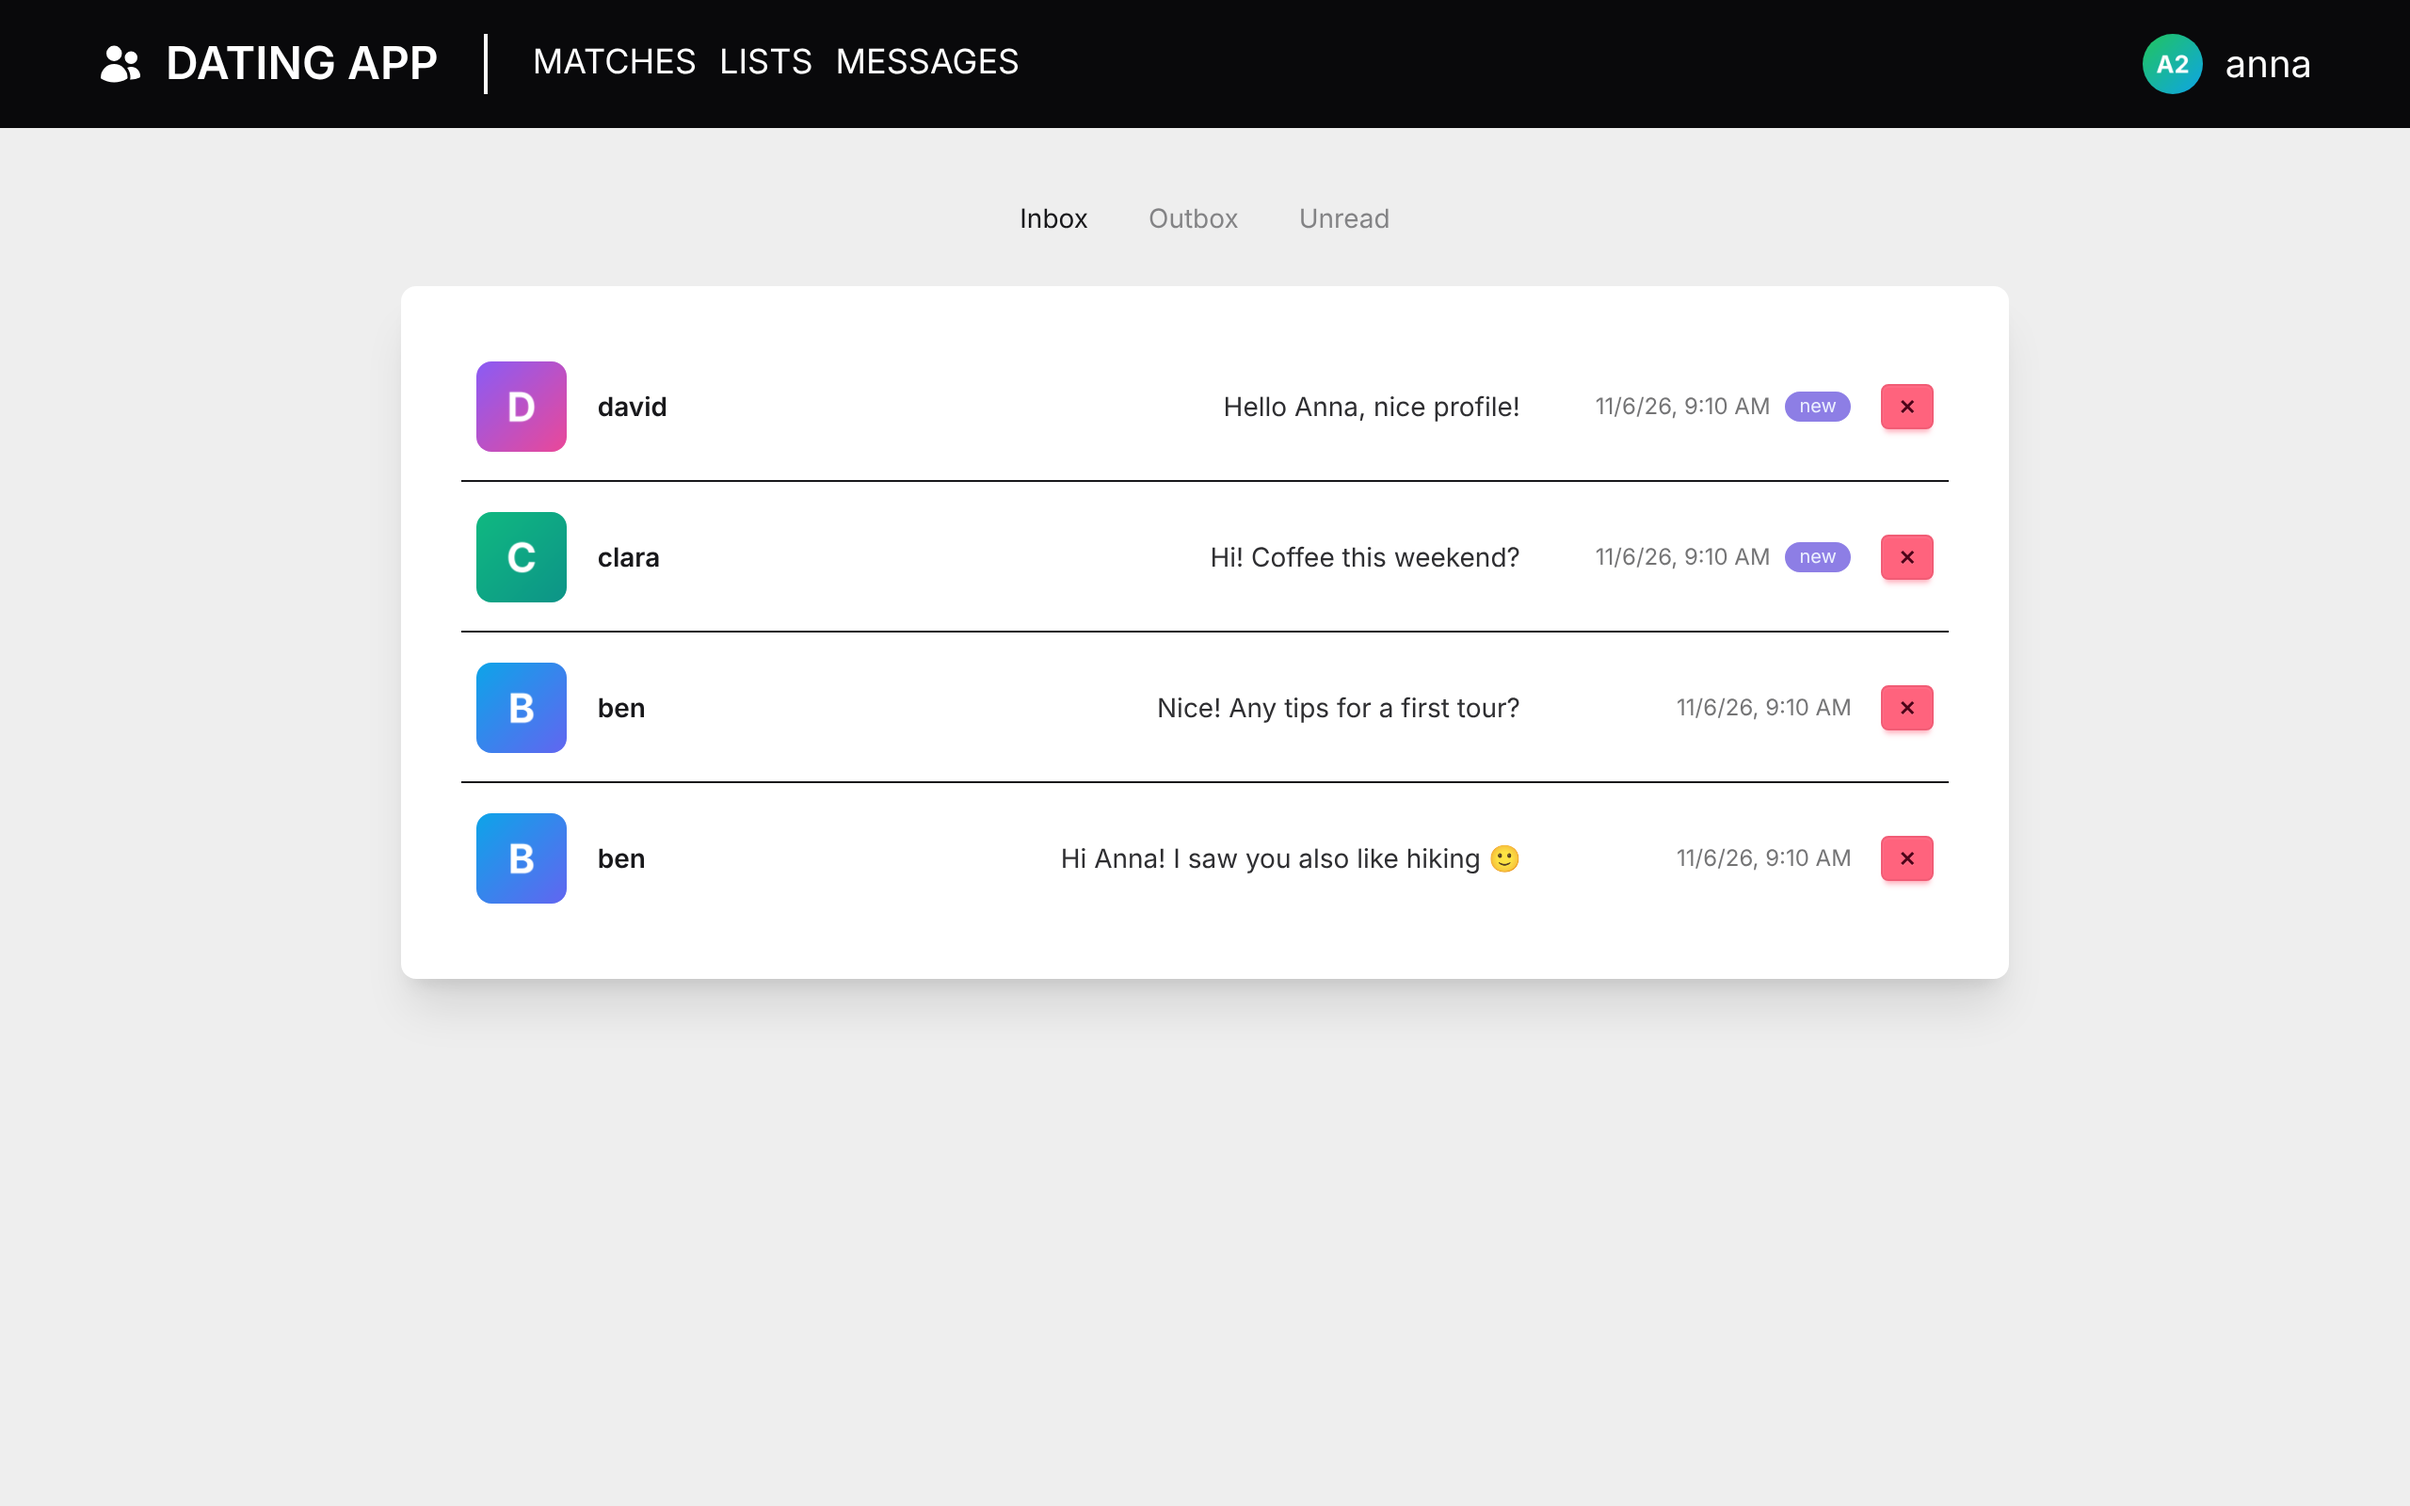
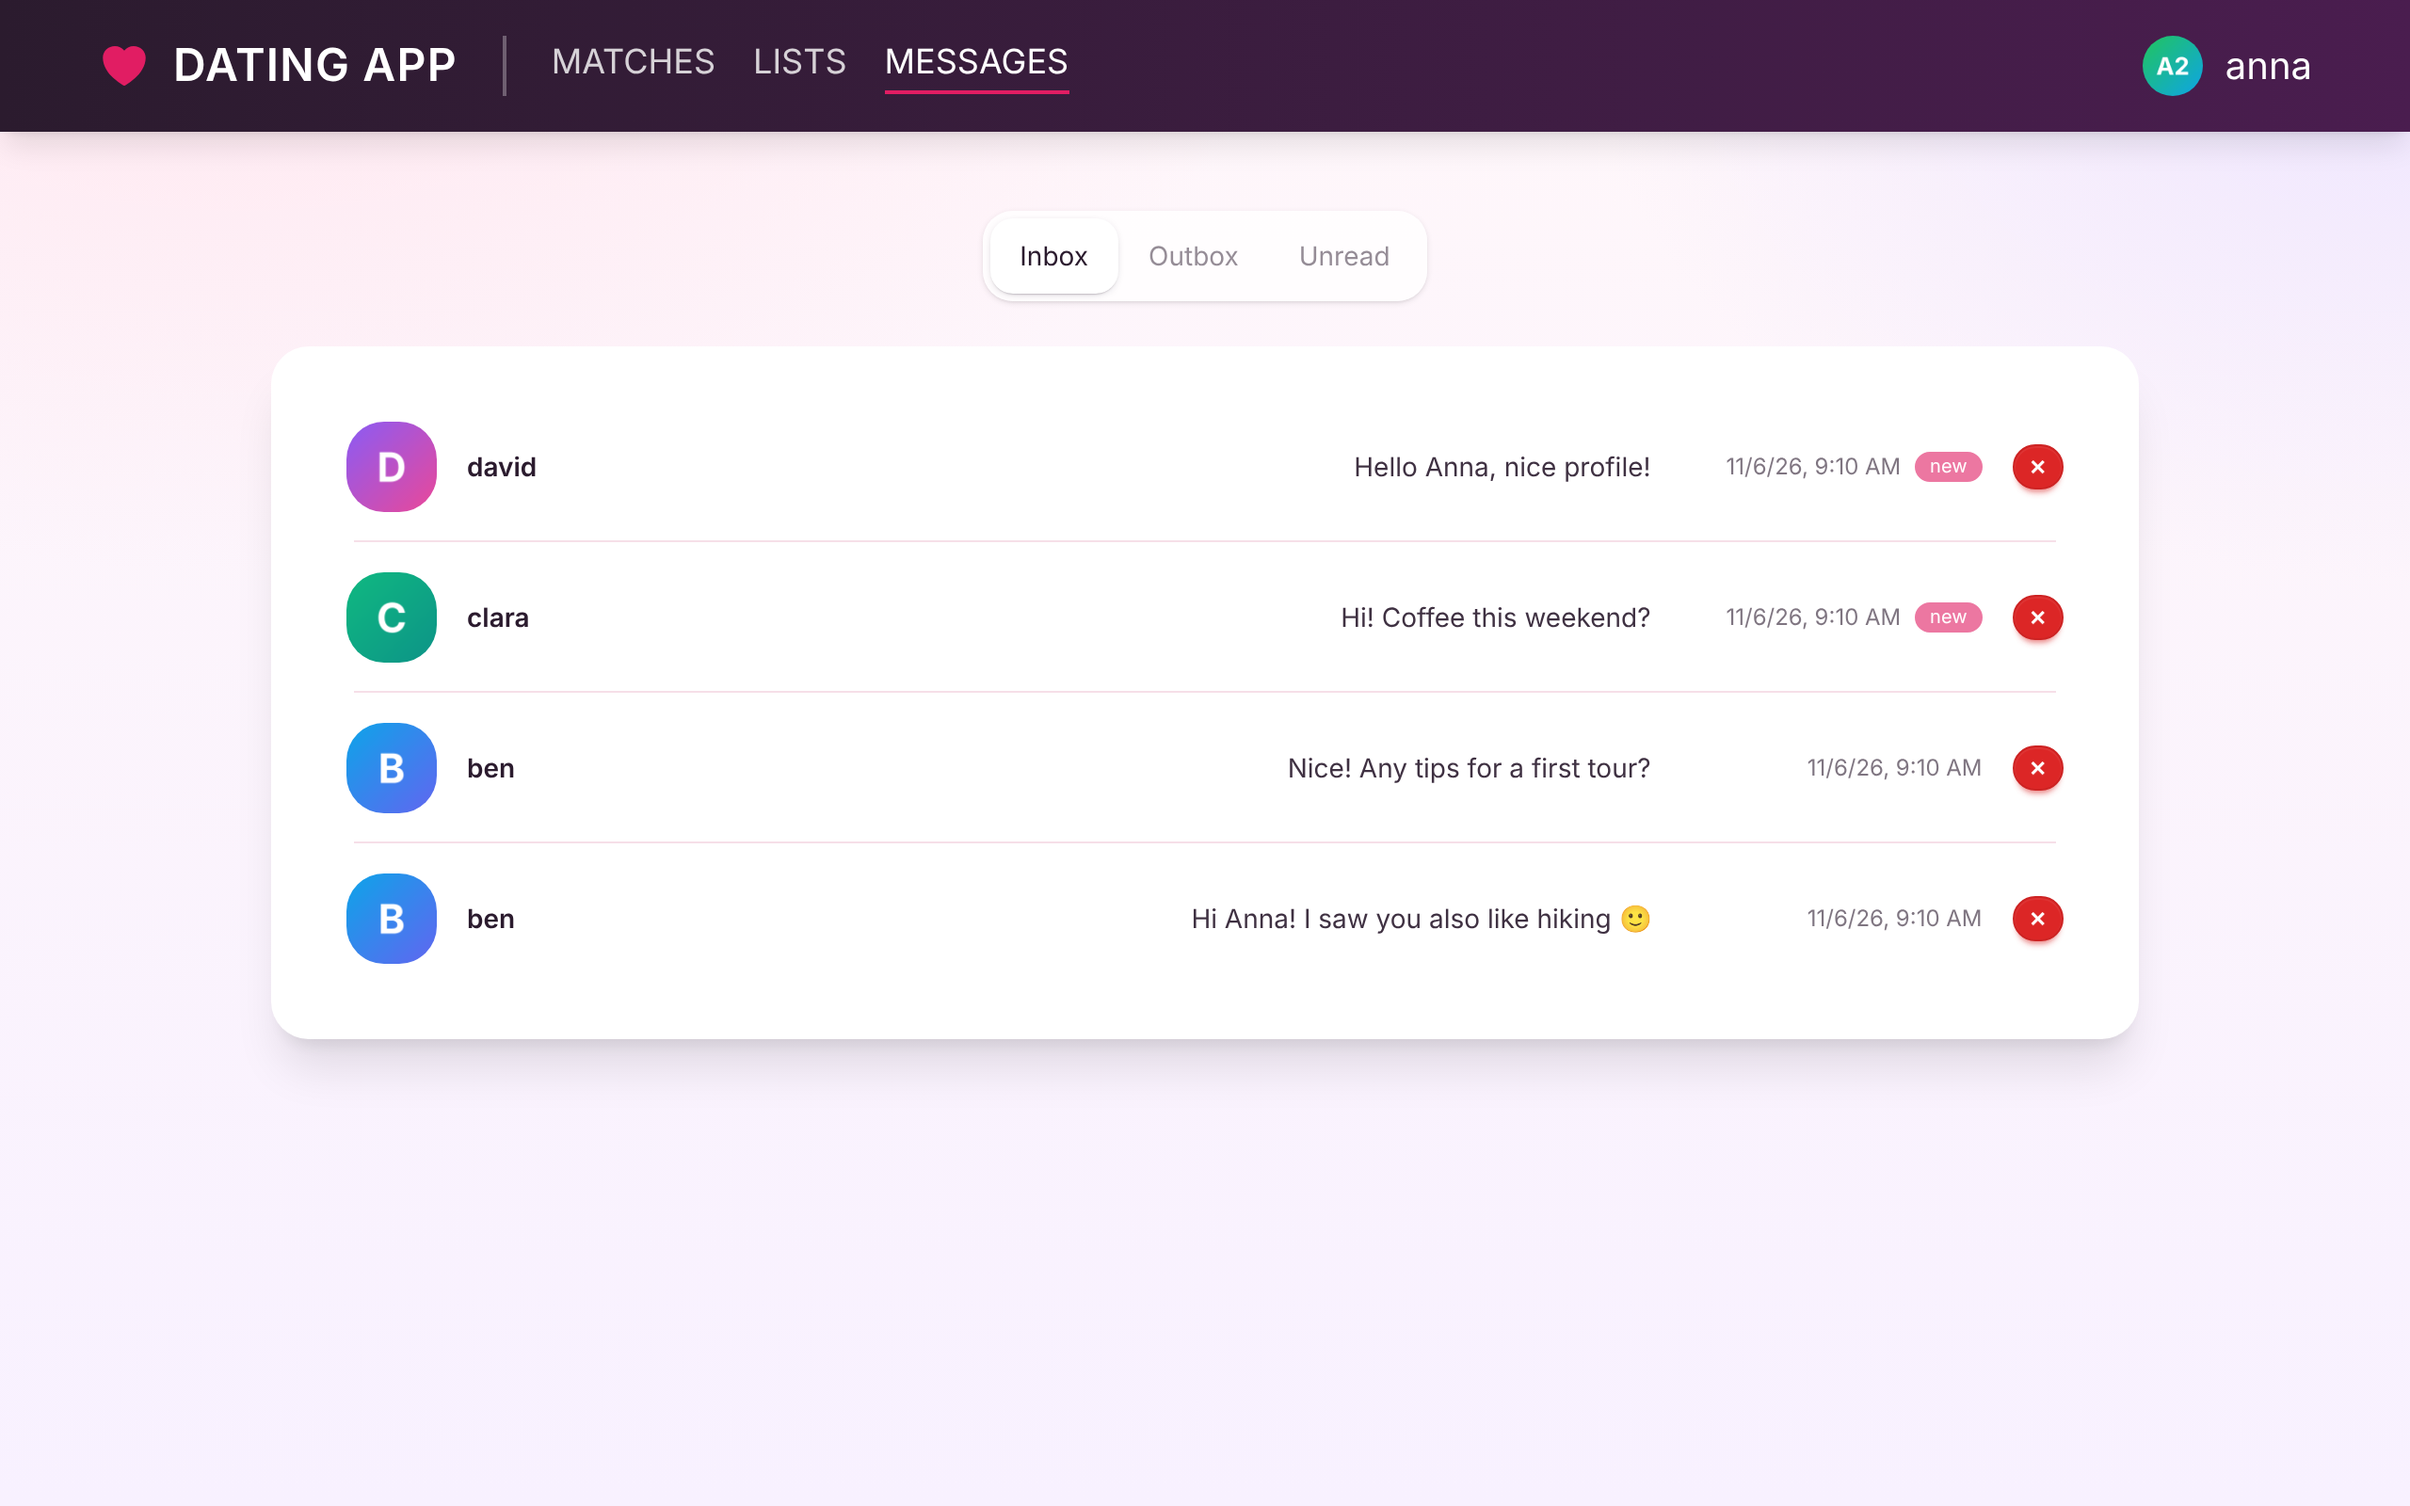
UI: warmer rose/plum theme, photo grid for members
- Custom daisyUI theme 'dating' (rose primary, plum neutral, softer radii)
  and a soft rose-to-lilac page background instead of flat grey
- Navbar: plum gradient, heart logo, active link indicator
- Member list: photo card grid (4 columns, 8 per page) with name overlay
  and online dot
- Consistent page widths; fix daisyUI 5 tabs class (tabs-box) on the
  messages page; softer list separators
- README screenshots retaken

Claude-Session: https://claude.ai/code/session_01HU36gBJ36QF4X4vq91BXfG

diff --git a/client/src/members/member-list/member-list.html b/client/src/members/member-list/member-list.html
@@ -1,6 +1,6 @@
-<div class="w-2/3 mx-auto mt-24">
+<div class="w-full max-w-5xl mx-auto px-4 pt-28 pb-10">
   <!-- Filter / sort controls -->
-  <div class="card bg-base-100 p-4 shadow-xl mb-4 flex flex-row flex-wrap items-center gap-3">
+  <div class="card bg-base-100/80 backdrop-blur p-4 shadow-xl mb-6 flex flex-row flex-wrap items-center gap-3">
     <input
       [(ngModel)]="userParams.search"
       (keyup.enter)="search()"
@@ -27,33 +27,38 @@
     <button (click)="resetFilters()" class="btn btn-ghost ml-auto">Reset</button>
   </div>
 
-  <!-- Member list -->
-  <div class="card bg-base-100 p-8 shadow-xl">
-    @if (members().length === 0) {
+  <!-- Member grid -->
+  @if (members().length === 0) {
+    <div class="card bg-base-100/80 backdrop-blur p-8 shadow-xl">
       <p class="text-center opacity-70">No members found.</p>
-    } @else {
-      <ul class="list">
-        @for (member of members(); track member.id) {
-          <li class="list-row items-center">
-            <a [routerLink]="['/members', member.id]" class="flex items-center gap-4 w-full">
-              <div class="relative">
-                <img [src]="member.imageUrl || '/male_defaultAvatar_vecteezy.jpg'" alt="user avatar" class="size-12 rounded-box object-cover">
-                @if (isOnline(member)) {
-                  <span class="absolute -top-1 -right-1 size-3 rounded-full bg-success ring-2 ring-base-100" title="Online"></span>
-                }
-              </div>
-              <div>{{ member.userName }}</div>
-            </a>
-          </li>
-        }
-      </ul>
-    }
-  </div>
+    </div>
+  } @else {
+    <div class="grid grid-cols-2 md:grid-cols-4 gap-5">
+      @for (member of members(); track member.id) {
+        <a
+          [routerLink]="['/members', member.id]"
+          class="group relative block overflow-hidden rounded-box bg-base-100 shadow-lg ring-1 ring-base-300 transition duration-200 hover:-translate-y-1 hover:shadow-2xl">
+          <img
+            [src]="member.imageUrl || '/male_defaultAvatar_vecteezy.jpg'"
+            alt="Photo of {{ member.userName }}"
+            class="aspect-[4/5] w-full object-cover transition duration-300 group-hover:scale-105">
+          <div class="absolute inset-x-0 bottom-0 bg-gradient-to-t from-black/70 via-black/30 to-transparent p-4 pt-12">
+            <div class="flex items-center gap-2 text-lg font-semibold text-white capitalize">
+              {{ member.userName }}
+              @if (isOnline(member)) {
+                <span class="size-3 rounded-full bg-emerald-400 ring-2 ring-white" title="Online"></span>
+              }
+            </div>
+          </div>
+        </a>
+      }
+    </div>
+  }
 
   <!-- Pagination -->
   @if (pagination(); as p) {
     @if (p.totalPages > 1) {
-      <div class="flex items-center justify-center gap-2 mt-4">
+      <div class="flex items-center justify-center gap-2 mt-8">
         <button
           class="btn btn-sm"
           [disabled]="p.currentPage === 1"

diff --git a/client/src/layout/nav/nav.html b/client/src/layout/nav/nav.html
@@ -1,18 +1,17 @@
-<header class ="p-3 w-full fixed top-0 z-50 bg-neutral">
+<header class ="p-3 w-full fixed top-0 z-50 bg-gradient-to-r from-neutral to-[#4a1d4f] shadow-lg">
 <div class="flex align-middle items-center px-10 mx-auto gap-6">
-  <a class="flex items-center max-h-16 gap-3 text-white border-r-white border-r-2 pr-6">
-  <svg xmlns="http://www.w3.org/2000/svg" viewBox="0 0 24 24" fill="currentColor" class="size-6">
-    <path
-      d="M4.5 6.375a4.125 4.125 0 1 1 8.25 0 4.125 4.125 0 0 1-8.25 0ZM14.25 8.625a3.375 3.375 0 1 1 6.75 0 3.375 3.375 0 0 1-6.75 0ZM1.5 19.125a7.125 7.125 0 0 1 14.25 0v.003l-.001.119a.75.75 0 0 1-.363.63 13.067 13.067 0 0 1-6.761 1.873c-2.472 0-4.786-.684-6.76-1.873a.75.75 0 0 1-.364-.63l-.001-.122ZM17.25 19.128l-.001.144a2.25 2.25 0 0 1-.233.96 10.088 10.088 0 0 0 5.06-1.01.75.75 0 0 0 .42-.643 4.875 4.875 0 0 0-6.957-4.611 8.586 8.586 0 0 1 1.71 5.157v.003Z" />
+  <a routerLink="/" class="flex items-center max-h-16 gap-3 text-white border-r-white/30 border-r-2 pr-6">
+  <svg xmlns="http://www.w3.org/2000/svg" viewBox="0 0 24 24" fill="currentColor" aria-hidden="true" class="size-7 text-primary">
+    <path d="m11.645 20.91-.007-.003-.022-.012a15.247 15.247 0 0 1-.383-.218 25.18 25.18 0 0 1-4.244-3.17C4.688 15.36 2.25 12.174 2.25 8.25 2.25 5.322 4.714 3 7.688 3A5.5 5.5 0 0 1 12 5.052 5.5 5.5 0 0 1 16.313 3c2.973 0 5.437 2.322 5.437 5.25 0 3.925-2.438 7.111-4.739 9.256a25.175 25.175 0 0 1-4.244 3.17 15.247 15.247 0 0 1-.383.219l-.022.012-.007.004-.003.001a.752.752 0 0 1-.704 0l-.003-.001Z" />
   </svg>
 
-    <h3 class="text-2xl font-semibold text-white uppercase">Dating App</h3>
+    <h3 class="text-2xl font-semibold text-white uppercase tracking-wide">Dating App</h3>
   </a>
-  <nav class="flex gap-3 my-2 uppercase text-lg text-white">
-    <a routerLink="/members">Matches</a>
-    <a>Lists</a>
+  <nav class="flex gap-5 my-2 uppercase text-lg text-white/80">
+    <a routerLink="/members" routerLinkActive="!text-white border-b-2 border-primary" class="hover:text-white transition-colors">Matches</a>
+    <a class="hover:text-white transition-colors">Lists</a>
     @if (loggedIn()) {
-      <a routerLink="/messages">Messages</a>
+      <a routerLink="/messages" routerLinkActive="!text-white border-b-2 border-primary" class="hover:text-white transition-colors">Messages</a>
     }
   </nav>
   <div class="flex align-middle ml-auto gap-3">

diff --git a/client/src/styles.css b/client/src/styles.css
@@ -1,3 +1,63 @@
 @import "tailwindcss";
 @plugin "daisyui";
+
+/* App theme: warm rose/plum palette instead of the neutral daisyUI default. */
+@plugin "daisyui/theme" {
+  name: "dating";
+  default: true;
+  prefersdark: false;
+  color-scheme: light;
+
+  --color-base-100: #ffffff;
+  --color-base-200: #fdf2f6;
+  --color-base-300: #f6dfe8;
+  --color-base-content: #2b1b2e;
+
+  --color-primary: #e11d63;
+  --color-primary-content: #ffffff;
+  --color-secondary: #7c3aed;
+  --color-secondary-content: #ffffff;
+  --color-accent: #f59e0b;
+  --color-accent-content: #2b1b2e;
+  --color-neutral: #2b1b2e;
+  --color-neutral-content: #fdf2f6;
+
+  --color-info: #0284c7;
+  --color-info-content: #ffffff;
+  --color-success: #15803d;
+  --color-success-content: #ffffff;
+  --color-warning: #f59e0b;
+  --color-warning-content: #2b1b2e;
+  --color-error: #dc2626;
+  --color-error-content: #ffffff;
+
+  --radius-selector: 1rem;
+  --radius-field: 0.75rem;
+  --radius-box: 1.25rem;
+  --size-selector: 0.25rem;
+  --size-field: 0.25rem;
+  --border: 1px;
+  --depth: 1;
+  --noise: 0;
+}
+
 @import "ngx-toastr/toastr";
+
+/* Soft rose → lilac backdrop for every page. */
+html {
+  min-height: 100%;
+  background:
+    radial-gradient(60rem 40rem at 10% -10%, #ffe4ee 0%, transparent 60%),
+    radial-gradient(50rem 35rem at 100% 0%, #ede4ff 0%, transparent 55%),
+    linear-gradient(180deg, #fff7fa 0%, #f8f1ff 100%);
+  background-attachment: fixed;
+}
+
+body {
+  background: transparent;
+}
+
+/* Softer separators between list rows (messages). */
+.list > .list-row:not(:last-child)::after {
+  border-color: var(--color-base-300);
+}

diff --git a/client/src/layout/nav/nav.ts b/client/src/layout/nav/nav.ts
@@ -1,6 +1,6 @@
 import { Component, computed } from '@angular/core';
 import { FormsModule } from '@angular/forms';
-import { RouterLink } from '@angular/router';
+import { RouterLink, RouterLinkActive } from '@angular/router';
 import { inject } from '@angular/core';
 import { AccountService } from '../../core/services/account-service.service';
 import { ToastService } from '../../core/services/toast-service';
@@ -8,7 +8,7 @@ import { ToastService } from '../../core/services/toast-service';
 @Component({
   selector: 'app-nav',
   standalone: true,
-  imports: [FormsModule, RouterLink],
+  imports: [FormsModule, RouterLink, RouterLinkActive],
   templateUrl: './nav.html',
   styleUrls: ['./nav.css']
 })

diff --git a/client/src/errors/not-found/not-found.html b/client/src/errors/not-found/not-found.html
@@ -1,4 +1,4 @@
-<div class="card bg-base-100 w-2/3 mx-auto p-8 mt-24 shadow-xl items-center text-center">
+<div class="card bg-base-100 w-full max-w-5xl mx-auto p-8 mt-28 shadow-xl items-center text-center">
   <h1 class="text-2xl font-semibold mb-4">Not Found</h1>
   <h2 class="text-lg">The resource you were looking for could not be found.</h2>
   <a routerLink="/" class="btn mt-6">Back home</a>

diff --git a/client/src/members/member-detail/member-detail.html b/client/src/members/member-detail/member-detail.html
@@ -1,5 +1,5 @@
 @if (member(); as member) {
-  <div class="card bg-base-100 w-2/3 mx-auto p-8 mt-24 shadow-xl">
+  <div class="card bg-base-100 w-full max-w-5xl mx-auto p-8 mt-28 mb-10 shadow-xl">
     <div class="flex items-center gap-6">
       <img [src]="member.imageUrl || '/male_defaultAvatar_vecteezy.jpg'" alt="user avatar" class="size-32 rounded-box object-cover">
       <div>

diff --git a/client/src/index.html b/client/src/index.html
@@ -1,8 +1,8 @@
 <!doctype html>
-<html lang="en" class="bg-base-300">
+<html lang="en" data-theme="dating">
 <head>
   <meta charset="utf-8">
-  <title>Client</title>
+  <title>Dating App</title>
   <base href="/">
   <meta name="viewport" content="width=device-width, initial-scale=1">
   <link rel="icon" type="image/x-icon" href="favicon.ico">

diff --git a/client/src/messages/messages/messages.html b/client/src/messages/messages/messages.html
@@ -1,6 +1,6 @@
-<div class="w-2/3 mx-auto mt-24">
+<div class="w-full max-w-5xl mx-auto px-4 pt-28 pb-10">
   <!-- Container tabs -->
-  <div class="tabs tabs-boxed mb-4 justify-center">
+  <div class="tabs tabs-box w-fit mx-auto mb-6 bg-base-100/80 shadow">
     @for (c of containers; track c) {
       <a
         class="tab"

diff --git a/client/src/errors/server-error/server-error.html b/client/src/errors/server-error/server-error.html
@@ -1,4 +1,4 @@
-<div class="card bg-base-100 w-2/3 mx-auto p-8 mt-24 shadow-xl">
+<div class="card bg-base-100 w-full max-w-5xl mx-auto p-8 mt-28 mb-10 shadow-xl">
   <h1 class="text-2xl font-semibold text-error mb-4">Server Error</h1>
   @if (error) {
     <h2 class="text-lg mb-4">{{ error.message }}</h2>

diff --git a/client/src/core/models/user-params.ts b/client/src/core/models/user-params.ts
@@ -3,5 +3,5 @@ export class UserParams {
   orderBy = 'username';
   direction: 'asc' | 'desc' = 'asc';
   pageNumber = 1;
-  pageSize = 5;
+  pageSize = 8;
 }
